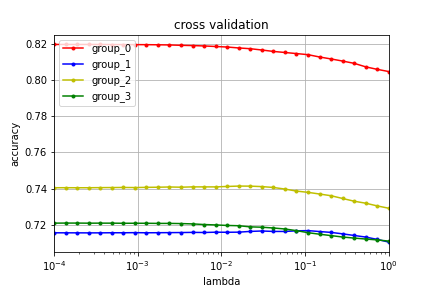
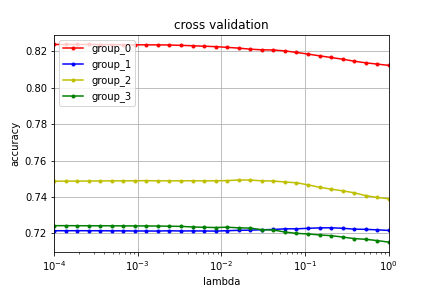
follow the standard outliers, improve to 76.9

diff --git a/project1/scripts/data_preprocessing.py b/project1/scripts/data_preprocessing.py
@@ -64,5 +64,5 @@ def remove_outliers(y, x, mean_x, std_x):
     '''remove any rows that contain outliers values'''
     not_outliers = np.array([True for _ in range(x.shape[0])])
     for i in range(x.shape[1]):
-        not_outliers = not_outliers * (np.abs(x[:, i] - mean_x[i]) <= 5 * std_x[i])
+        not_outliers = not_outliers * (np.abs(x[:, i] - mean_x[i]) <= 3 * std_x[i])
     return y[not_outliers], x[not_outliers]
